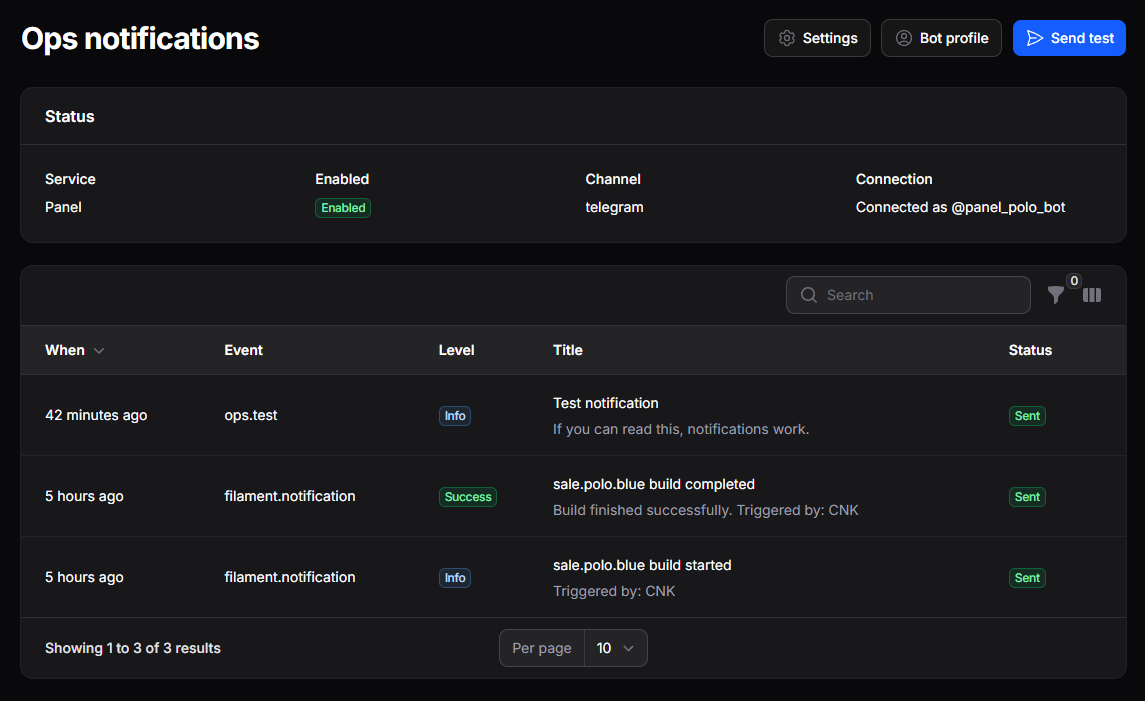
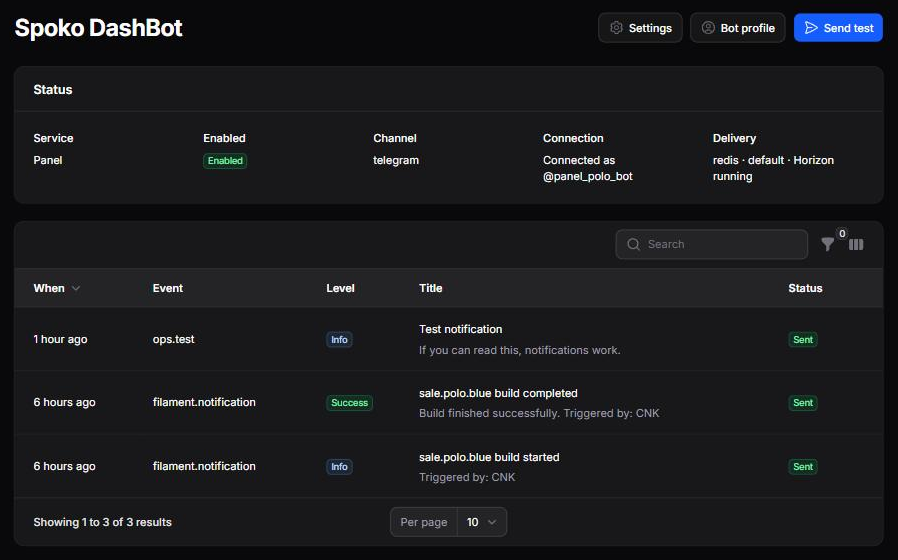
docs: refresh the page screenshots with the Spoko DashBot name and Delivery status

diff --git a/README.md b/README.md
@@ -37,8 +37,8 @@ reach Telegram with no code changes.
 
 ## Screenshots
 
-**The Spoko DashBot page:** connection status and the history of every message sent, with
-failed ones ready to resend.
+**The Spoko DashBot page:** the Telegram connection, where messages are delivered (queue and
+Horizon state), and the history of every message sent, with failed ones ready to resend.
 
 <picture>
   <source media="(prefers-color-scheme: dark)" srcset="https://raw.githubusercontent.com/spokospace/filament-ops-notify/main/art/screenshots/page-dark.png">
